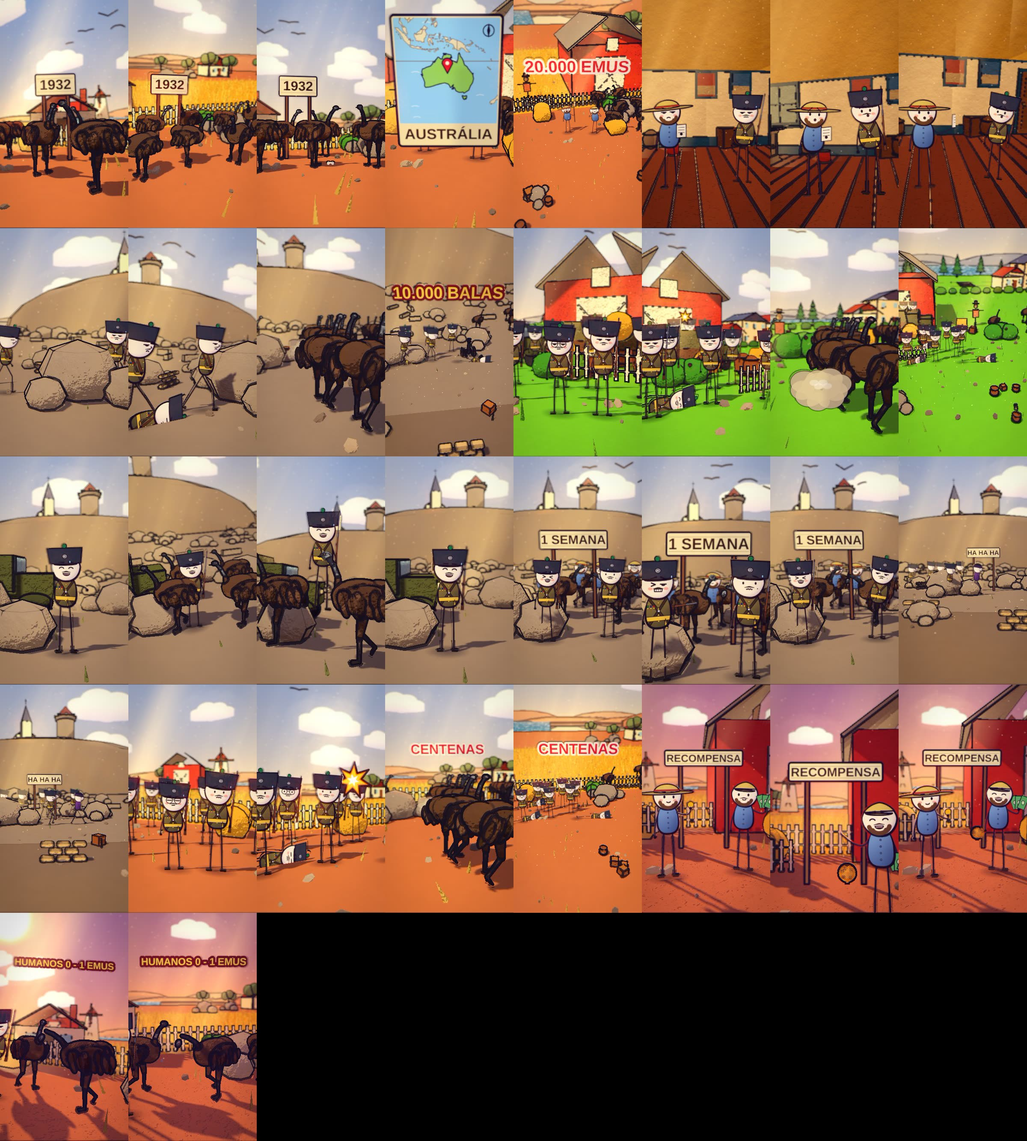
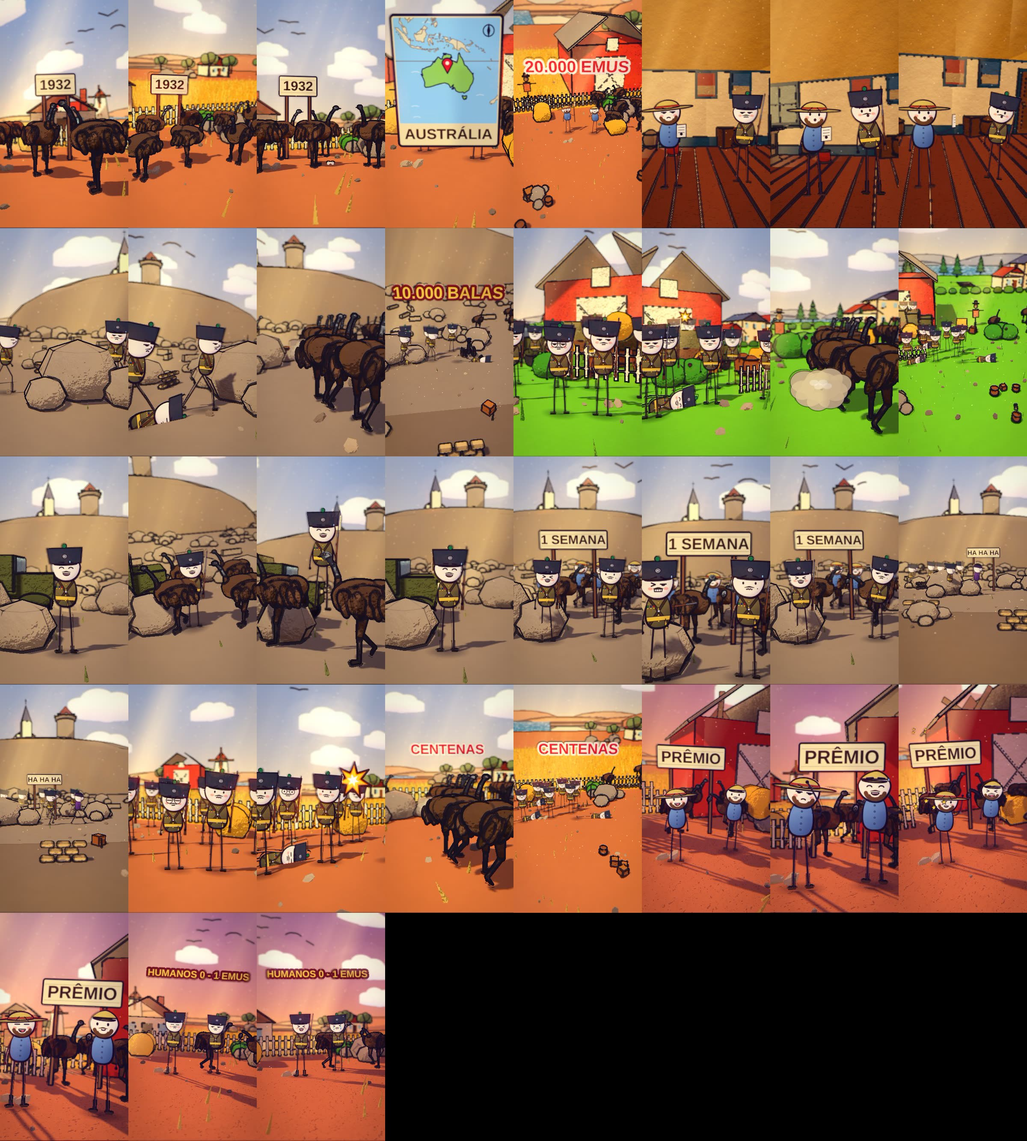
emus1932 aprovado
Claude-Session: https://claude.ai/code/session_01HE8Dy3Tz5Mgz6d3rSUrMHS

Changed region(s): [[0.0, 0.7786, 0.375, 1.0], [0.625, 0.5917, 1.0, 0.8098]]

diff --git a/ferramenta-shorts/web/story.js b/ferramenta-shorts/web/story.js
@@ -42,11 +42,11 @@ const SPEC = {
     { ...S('b7', A[7], A[8] - 1, X_mountain, "desert", { h: 2.2, d0: 8.0, d1: 8.0, el: 3, fov: 44, vary: false, hero: { hero: 'any', frame: 'medium', minH: 0.07, main: 2 }, trans: 'dissolve', shots: [WS(116) + 2], actors: [Object.assign({ outfit: "AUS", v: 0, at: [X_mountain + -5.15, 1.3], move: [[X_mountain + 2.85, 1.3], A[7], A[8] - 1, 'lin'], pose: "run", expr: ((f) => f >= WS(109) - 2 ? "laugh" : "pained") }, { gests: [[WS(109) - 4, WS(116) - 4, 'up']] }), { outfit: "PRESS", v: 0, at: [X_mountain + -2.85, 1.0], move: [[X_mountain + 5.15, 1.0], A[7], A[8] - 1, 'lin'], pose: "run", expr: ((f) => f >= WS(109) - 2 ? "laugh" : "grin"), over: { hold: "paper" } }, { outfit: "AUS", v: 0, at: [X_mountain + -12.85, -3.36], move: [[X_mountain + -0.85, -3.36], A[7], A[8] - 1, 'lin'], pose: 'march', speed: 0.034, expr: ((f) => f >= WS(109) - 2 ? "laugh" : "stern"), seed: 0, look: -0.25 }, { outfit: "AUS", v: 1, at: [X_mountain + -10.79, -2.88], move: [[X_mountain + 1.21, -2.88], A[7], A[8] - 1, 'lin'], pose: 'march', speed: 0.034, expr: ((f) => f >= WS(109) - 2 ? "laugh" : "stern"), seed: 1, look: 0.25 }, { outfit: "AUS", v: 2, at: [X_mountain + -8.73, -3.24], move: [[X_mountain + 3.27, -3.24], A[7], A[8] - 1, 'lin'], pose: 'march', speed: 0.034, expr: ((f) => f >= WS(109) - 2 ? "laugh" : "stern"), seed: 2, look: 0.0 }, { outfit: "AUS", v: 3, at: [X_mountain + -7.66, -2.76], move: [[X_mountain + 4.34, -2.76], A[7], A[8] - 1, 'lin'], pose: 'march', speed: 0.034, expr: ((f) => f >= WS(109) - 2 ? "laugh" : "stern"), seed: 3, look: 0.15 }, { outfit: "AUS", v: 0, at: [X_mountain + -5.6, -3.12], move: [[X_mountain + 6.4, -3.12], A[7], A[8] - 1, 'lin'], pose: 'march', speed: 0.034, expr: ((f) => f >= WS(109) - 2 ? "laugh" : "stern"), seed: 0, look: -0.25 }, { outfit: "AUS", v: 1, at: [X_mountain + -11.14, -4.74], move: [[X_mountain + 0.86, -4.74], A[7], A[8] - 1, 'lin'], pose: 'march', speed: 0.034, expr: ((f) => f >= WS(109) - 2 ? "laugh" : "stern"), seed: 1, look: 0.25 }], fx: [{ k: 'text', a: A[7], b: A[8] - 1, at: [X_mountain + 0.0, DK, -1.3], text: "HA HA HA", s: 2.625, col: '#3a2416', size: 120, board: true }, { k: "dust", a: WS(106), b: WS(106) + 28, at: [X_mountain + 4.3, DK + 0.12, -2.92], s: 0.7 }, { k: "stars", a: WS(109), b: WS(109) + 28, at: [X_mountain + -1.79, DK + 0.5, -1.88], s: 1.1 }, { k: 'burst', a: WS(116), b: WS(116) + 22, at: [X_mountain + -3.85, DK + 1.8, -1.86], s: 1.2 }, { k: "stars", a: WS(109) + 3, b: WS(109) + 30, at: [X_mountain + -1.15, DK + 2.6, 1.7], s: 0.6 }, { k: 'flash', a: WS(116) + 2, b: WS(116) + 10, at: [X_mountain + 0.4, DK - 0.55, 1.7], s: 1.6 }] }), cam: [{ f: A[7], at: [X_mountain + -4.0, DK + 2.2, 1.5], d: 8.0, az: 6, el: 3, fov: 44 }, { f: A[8] - 1, at: [X_mountain + 4.0, DK + 2.2, 1.5], d: 8.0, az: -8, el: 4, fov: 44, ease: 'lin' }], nocut: true },
     { ...{ ...S('b8', A[8], Math.round(A[8] + (A[9] - 1 + 1 - (A[8])) * 0.2) - 1, X, "desert", { h: 2.6, d0: 25.0, d1: 19.0, el: 11, cx: 0.0, cz: -1.5, hero: { hero: 'none', wide: true }, vary: false, nocut: true, trans: 'dissolve', actors: [pp(X, "AUS", 1, -1.15, -0.4, "stern"), pp(X, "AUS", 0, 1.15, 0.2, "stern"), { bird: 'emu', at: [X + 1.5, -0.5], move: [[X + 6.5, -5.5], A[8], A[9] - 1], state: 'walk', spd: 0.09, s: 1.6, flip: false, seed: 2 }, { bird: 'emu', at: [X + 3.188, 0.25], move: [[X + 14.488, -6.812], A[8], A[9] - 1], state: 'walk', spd: 0.09, s: 1.6, flip: false, seed: 7 }, { bird: 'emu', at: [X + 4.875, 1.0], move: [[X + 12.575, -8.125], A[8], A[9] - 1], state: 'walk', spd: 0.09, s: 1.6, flip: false, seed: 12 }, { bird: 'emu', at: [X + 6.562, 1.75], move: [[X + 20.562, -9.438], A[8], A[9] - 1], state: 'walk', spd: 0.09, s: 1.6, flip: false, seed: 17 }, { bird: 'emu', at: [X + 8.25, 2.5], move: [[X + 18.65, -10.75], A[8], A[9] - 1], state: 'walk', spd: 0.09, s: 1.6, flip: false, seed: 22 }, { bird: 'emu', at: [X + 9.938, 3.25], move: [[X + 16.738, -12.062], A[8], A[9] - 1], state: 'walk', spd: 0.09, s: 1.6, flip: false, seed: 27 }, { bird: 'emu', at: [X + 2.062, 4.0], move: [[X + 15.162, -1.688], A[8], A[9] - 1], state: 'walk', spd: 0.09, s: 1.6, flip: false, seed: 32 }, { bird: 'emu', at: [X + 3.75, 4.75], move: [[X + 13.25, -3.0], A[8], A[9] - 1], state: 'walk', spd: 0.09, s: 1.6, flip: false, seed: 37 }, { bird: 'emu', at: [X + 5.438, 5.5], move: [[X + 11.338, -4.312], A[8], A[9] - 1], state: 'walk', spd: 0.09, s: 1.6, flip: false, seed: 42 }, { bird: 'emu', at: [X + 7.125, 6.25], move: [[X + 19.325, -5.625], A[8], A[9] - 1], state: 'walk', spd: 0.09, s: 1.6, flip: false, seed: 47 }, { bird: 'emu', at: [X + 8.812, 7.0], move: [[X + 17.413, -6.938], A[8], A[9] - 1], state: 'walk', spd: 0.09, s: 1.6, flip: false, seed: 52 }, { bird: 'emu', at: [X + 10.5, 7.75], move: [[X + 15.5, -8.25], A[8], A[9] - 1], state: 'walk', spd: 0.09, s: 1.6, flip: false, seed: 57 }, { bird: 'emu', at: [X + 2.625, 8.5], move: [[X + 13.925, 2.125], A[8], A[9] - 1], state: 'walk', spd: 0.09, s: 1.6, flip: false, seed: 62 }, { bird: 'emu', at: [X + 4.312, -0.5], move: [[X + 12.012, -8.938], A[8], A[9] - 1], state: 'walk', spd: 0.09, s: 1.6, flip: false, seed: 67 }, { bird: 'emu', at: [X + 6.0, 0.25], move: [[X + 20.0, -10.25], A[8], A[9] - 1], state: 'walk', spd: 0.09, s: 1.6, flip: false, seed: 72 }, { bird: 'emu', at: [X + 7.688, 1.0], move: [[X + 18.087, -11.562], A[8], A[9] - 1], state: 'walk', spd: 0.09, s: 1.6, flip: false, seed: 77 }, { bird: 'emu', at: [X + 9.375, 1.75], move: [[X + 16.175, -12.875], A[8], A[9] - 1], state: 'walk', spd: 0.09, s: 1.6, flip: false, seed: 82 }, { bird: 'emu', at: [X + 1.5, 2.5], move: [[X + 14.6, -2.5], A[8], A[9] - 1], state: 'walk', spd: 0.09, s: 1.6, flip: false, seed: 87 }, { bird: 'emu', at: [X + 3.188, 3.25], move: [[X + 12.688, -3.812], A[8], A[9] - 1], state: 'walk', spd: 0.09, s: 1.6, flip: false, seed: 92 }, { bird: 'emu', at: [X + 4.875, 4.0], move: [[X + 10.775, -5.125], A[8], A[9] - 1], state: 'walk', spd: 0.09, s: 1.6, flip: false, seed: 97 }, { bird: 'emu', at: [X + 6.562, 4.75], move: [[X + 18.762, -6.438], A[8], A[9] - 1], state: 'walk', spd: 0.09, s: 1.6, flip: false, seed: 102 }, { bird: 'emu', at: [X + 8.25, 5.5], move: [[X + 16.85, -7.75], A[8], A[9] - 1], state: 'walk', spd: 0.09, s: 1.6, flip: false, seed: 107 }, { bird: 'emu', at: [X + 9.938, 6.25], move: [[X + 14.938, -9.062], A[8], A[9] - 1], state: 'walk', spd: 0.09, s: 1.6, flip: false, seed: 112 }, { bird: 'emu', at: [X + 2.062, 7.0], move: [[X + 13.363, 1.312], A[8], A[9] - 1], state: 'walk', spd: 0.09, s: 1.6, flip: false, seed: 117 }, { bird: 'emu', at: [X + 3.75, 7.75], move: [[X + 11.45, 0.0], A[8], A[9] - 1], state: 'walk', spd: 0.09, s: 1.6, flip: false, seed: 122 }, { bird: 'emu', at: [X + 5.438, 8.5], move: [[X + 19.438, -1.312], A[8], A[9] - 1], state: 'walk', spd: 0.09, s: 1.6, flip: false, seed: 127 }, pp(X, "AUS", 0, -14.55, 0.84, "neutral", { look: -0.25, seed: 0 }), pp(X, "AUS", 1, -12.29, 1.32, "neutral", { look: 0.25, seed: 1 }), Object.assign(pp(X, "AUS", 2, -10.03, 0.96, "neutral", { look: 0.0, seed: 2 }), { poses: [[A[8] + 22, A[9] - 1, 'fall']] }), pp(X, "AUS", 3, -8.76, 1.44, "neutral", { look: 0.15, seed: 3 }), pp(X, "AUS", 4, -6.5, 1.08, "neutral", { look: -0.25, seed: 0 }), Object.assign(pp(X, "AUS", 5, -4.24, 1.56, "neutral", { look: 0.25, seed: 1 }), { poses: [[A[8] + 39, A[9] - 1, 'fall']] }), pp(X, "AUS", 6, -2.97, 1.2, "neutral", { look: 0.0, seed: 2 }), pp(X, "AUS", 0, -0.71, 0.84, "neutral", { look: 0.15, seed: 3 }), Object.assign(pp(X, "AUS", 1, 1.55, 1.32, "neutral", { look: -0.25, seed: 0 }), { poses: [[A[8] + 56, A[9] - 1, 'fall']] }), pp(X, "AUS", 2, -13.38, -1.14, "neutral", { look: 0.25, seed: 1 }), pp(X, "AUS", 3, -11.12, -0.66, "neutral", { look: 0.0, seed: 2 }), Object.assign(pp(X, "AUS", 4, -9.85, -1.02, "neutral", { look: 0.15, seed: 3 }), { poses: [[A[8] + 73, A[9] - 1, 'fall']] }), pp(X, "AUS", 5, -7.59, -0.54, "neutral", { look: -0.25, seed: 0 }), pp(X, "AUS", 6, -5.33, -0.9, "neutral", { look: 0.25, seed: 1 }), Object.assign(pp(X, "AUS", 0, -4.06, -1.26, "neutral", { look: 0.0, seed: 2 }), { poses: [[A[8] + 90, A[9] - 1, 'fall']] }), pp(X, "AUS", 1, -1.8, -0.78, "neutral", { look: 0.15, seed: 3 }), pp(X, "AUS", 2, 0.46, -1.14, "neutral", { look: -0.25, seed: 0 }), pp(X, "AUS", 3, 1.73, -0.66, "neutral", { look: 0.25, seed: 1 }), pp(X, "AUS", 4, -14.01, -3.12, "neutral", { look: 0.0, seed: 2 }), pp(X, "AUS", 5, -11.75, -2.64, "neutral", { look: 0.15, seed: 3 }), pp(X, "AUS", 6, -10.48, -3.0, "neutral", { look: -0.25, seed: 0 }), pp(X, "AUS", 0, -8.22, -3.36, "neutral", { look: 0.25, seed: 1 }), pp(X, "AUS", 1, -6.95, -2.88, "neutral", { look: 0.0, seed: 2 }), pp(X, "AUS", 2, -4.69, -3.24, "neutral", { look: 0.15, seed: 3 })], fx: [{ k: 'dust', a: A[8] + 14, b: A[8] + 44, at: [X + 3.5, DK + 0.4, -2.5], s: 0.85 }, { k: 'dust', a: A[8] + 41, b: A[8] + 71, at: [X + 12.163, DK + 0.4, -2.725], s: 0.85 }, { k: 'dust', a: A[8] + 68, b: A[8] + 98, at: [X + 7.303, DK + 0.4, 1.725], s: 0.85 }, { k: 'dust', a: A[8] + 95, b: A[8] + 125, at: [X + 12.005, DK + 0.4, 1.5], s: 0.85 }, { k: 'dust', a: A[8] + 122, b: A[8] + 152, at: [X + 7.145, DK + 0.4, 5.95], s: 0.85 }, { k: 'dust', a: A[8] + 149, b: A[8] + 179, at: [X + 11.848, DK + 0.4, -4.025], s: 0.85 }, { k: 'dust', a: A[8] + 176, b: A[8] + 206, at: [X + 6.988, DK + 0.4, 0.425], s: 0.85 }, { k: 'dust', a: A[8] + 203, b: A[8] + 233, at: [X + 11.69, DK + 0.4, 0.2], s: 0.85 }, { k: 'dust', a: A[8] + 230, b: A[8] + 260, at: [X + 6.83, DK + 0.4, 4.65], s: 0.85 }, { k: 'birds', a: A[8], b: A[9] - 1, at: [X, DK + 7.5, -30], n: 6, dir: 1, off: 8 }, txt(X, WS(125, -2), A[9] - 1, "CENTENAS", '#d8282f', '#fff6e0', 4.8, { s: 1.5, up: 0.42 }), { k: 'flash', a: A[8] + 8, b: A[8] + 16, at: [X + -9.28, DK - 1.05 + 0, 1.36], s: 2.5 }, { k: 'flash', a: A[8] + 16, b: A[8] + 24, at: [X + 0.04, DK - 1.05 + 0, 1.24], s: 2.5 }, { k: 'flash', a: A[8] + 20, b: A[8] + 28, at: [X + -6.84, DK - 1.05 + 0, -0.14], s: 2.5 }, { k: 'flash', a: A[8] + 24, b: A[8] + 32, at: [X + 2.48, DK - 1.05 + 0, -0.26], s: 2.5 }, { k: 'flash', a: A[8] + 28, b: A[8] + 36, at: [X + -6.2, DK - 1.05 + 0, -2.48], s: 2.5 }, { k: 'flash', a: A[8] + 36, b: A[8] + 44, at: [X + -8.01, DK - 1.05 + 0, 1.84], s: 2.5 }, { k: 'flash', a: A[8] + 40, b: A[8] + 48, at: [X + 2.3, DK - 1.05 + 0, 1.72], s: 2.5 }, { k: 'flash', a: A[8] + 44, b: A[8] + 52, at: [X + -4.58, DK - 1.05 + 0, -0.5], s: 2.5 }, { k: 'flash', a: A[8] + 48, b: A[8] + 56, at: [X + -13.26, DK - 1.05 + 0, -2.72], s: 2.5 }, { k: 'flash', a: A[8] + 56, b: A[8] + 64, at: [X + -3.94, DK - 1.05 + 0, -2.84], s: 2.5 }, { k: 'flash', a: A[8] + 60, b: A[8] + 68, at: [X + -5.75, DK - 1.05 + 0, 1.48], s: 2.5 }, { k: 'flash', a: A[8] + 64, b: A[8] + 72, at: [X + -12.63, DK - 1.05 + 0, -0.74], s: 2.5 }, { k: 'flash', a: A[8] + 68, b: A[8] + 76, at: [X + -3.31, DK - 1.05 + 0, -0.86], s: 2.5 }, { k: 'flash', a: A[8] + 76, b: A[8] + 84, at: [X + -11.0, DK - 1.05 + 0, -2.24], s: 2.5 }, { k: 'flash', a: A[8] + 80, b: A[8] + 88, at: [X + -13.8, DK - 1.05 + 0, 1.24], s: 2.5 }, { k: 'flash', a: A[8] + 84, b: A[8] + 92, at: [X + -3.49, DK - 1.05 + 0, 1.96], s: 2.5 }, { k: 'flash', a: A[8] + 88, b: A[8] + 96, at: [X + -10.37, DK - 1.05 + 0, -0.26], s: 2.5 }, { k: 'flash', a: A[8] + 96, b: A[8] + 104, at: [X + -1.05, DK - 1.05 + 0, -0.38], s: 2.5 }, { k: 'flash', a: A[8] + 100, b: A[8] + 108, at: [X + -9.73, DK - 1.05 + 0, -2.6], s: 2.5 }, { k: 'flash', a: A[8] + 104, b: A[8] + 112, at: [X + -11.54, DK - 1.05 + 0, 1.72], s: 2.5 }, { k: 'flash', a: A[8] + 108, b: A[8] + 116, at: [X + -2.22, DK - 1.05 + 0, 1.6], s: 2.5 }, { k: 'flash', a: A[8] + 116, b: A[8] + 124, at: [X + -9.1, DK - 1.05 + 0, -0.62], s: 2.5 }, { k: 'flash', a: A[8] + 120, b: A[8] + 128, at: [X + 1.21, DK - 1.05 + 0, -0.74], s: 2.5 }, { k: 'flash', a: A[8] + 124, b: A[8] + 132, at: [X + -7.47, DK - 1.05 + 0, -2.96], s: 2.5 }, { k: 'dust', a: A[8] + 22, b: A[8] + 42, at: [X + -10.03, DK + 0.1, 1.26], s: 0.6 }, { k: 'dust', a: A[8] + 39, b: A[8] + 59, at: [X + -4.24, DK + 0.1, 1.86], s: 0.6 }, { k: 'dust', a: A[8] + 56, b: A[8] + 76, at: [X + 1.55, DK + 0.1, 1.62], s: 0.6 }, { k: 'dust', a: A[8] + 73, b: A[8] + 93, at: [X + -9.85, DK + 0.1, -0.72], s: 0.6 }, { k: 'dust', a: A[8] + 90, b: A[8] + 110, at: [X + -4.06, DK + 0.1, -0.96], s: 0.6 }] }), nocut: true }, cam: [{ f: A[8], at: [X + -5.0, DK + 1.9, -2.5], d: 11, az: 24, el: 5, fov: 44 }, { f: Math.round(A[8] + (A[9] - 1 + 1 - (A[8])) * 0.2) - 1, at: [X + -5.5, DK + 1.9, -2.5], d: 9.2, az: 16, el: 5, fov: 44 }], nocut: true, vary: false }, { ...{ ...S('b8_1', Math.round(A[8] + (A[9] - 1 + 1 - (A[8])) * 0.2), Math.round(A[8] + (A[9] - 1 + 1 - (A[8])) * 0.4) - 1, X, "desert", { h: 2.6, d0: 25.0, d1: 19.0, el: 11, cx: 0.0, cz: -1.5, hero: { hero: 'none', wide: true }, vary: false, nocut: true, trans: 'cut', actors: [pp(X, "AUS", 1, -1.15, -0.4, "stern"), pp(X, "AUS", 0, 1.15, 0.2, "stern"), { bird: 'emu', at: [X + 1.5, -0.5], move: [[X + 6.5, -5.5], A[8], A[9] - 1], state: 'walk', spd: 0.09, s: 1.6, flip: false, seed: 2 }, { bird: 'emu', at: [X + 3.188, 0.25], move: [[X + 14.488, -6.812], A[8], A[9] - 1], state: 'walk', spd: 0.09, s: 1.6, flip: false, seed: 7 }, { bird: 'emu', at: [X + 4.875, 1.0], move: [[X + 12.575, -8.125], A[8], A[9] - 1], state: 'walk', spd: 0.09, s: 1.6, flip: false, seed: 12 }, { bird: 'emu', at: [X + 6.562, 1.75], move: [[X + 20.562, -9.438], A[8], A[9] - 1], state: 'walk', spd: 0.09, s: 1.6, flip: false, seed: 17 }, { bird: 'emu', at: [X + 8.25, 2.5], move: [[X + 18.65, -10.75], A[8], A[9] - 1], state: 'walk', spd: 0.09, s: 1.6, flip: false, seed: 22 }, { bird: 'emu', at: [X + 9.938, 3.25], move: [[X + 16.738, -12.062], A[8], A[9] - 1], state: 'walk', spd: 0.09, s: 1.6, flip: false, seed: 27 }, { bird: 'emu', at: [X + 2.062, 4.0], move: [[X + 15.162, -1.688], A[8], A[9] - 1], state: 'walk', spd: 0.09, s: 1.6, flip: false, seed: 32 }, { bird: 'emu', at: [X + 3.75, 4.75], move: [[X + 13.25, -3.0], A[8], A[9] - 1], state: 'walk', spd: 0.09, s: 1.6, flip: false, seed: 37 }, { bird: 'emu', at: [X + 5.438, 5.5], move: [[X + 11.338, -4.312], A[8], A[9] - 1], state: 'walk', spd: 0.09, s: 1.6, flip: false, seed: 42 }, { bird: 'emu', at: [X + 7.125, 6.25], move: [[X + 19.325, -5.625], A[8], A[9] - 1], state: 'walk', spd: 0.09, s: 1.6, flip: false, seed: 47 }, { bird: 'emu', at: [X + 8.812, 7.0], move: [[X + 17.413, -6.938], A[8], A[9] - 1], state: 'walk', spd: 0.09, s: 1.6, flip: false, seed: 52 }, { bird: 'emu', at: [X + 10.5, 7.75], move: [[X + 15.5, -8.25], A[8], A[9] - 1], state: 'walk', spd: 0.09, s: 1.6, flip: false, seed: 57 }, { bird: 'emu', at: [X + 2.625, 8.5], move: [[X + 13.925, 2.125], A[8], A[9] - 1], state: 'walk', spd: 0.09, s: 1.6, flip: false, seed: 62 }, { bird: 'emu', at: [X + 4.312, -0.5], move: [[X + 12.012, -8.938], A[8], A[9] - 1], state: 'walk', spd: 0.09, s: 1.6, flip: false, seed: 67 }, { bird: 'emu', at: [X + 6.0, 0.25], move: [[X + 20.0, -10.25], A[8], A[9] - 1], state: 'walk', spd: 0.09, s: 1.6, flip: false, seed: 72 }, { bird: 'emu', at: [X + 7.688, 1.0], move: [[X + 18.087, -11.562], A[8], A[9] - 1], state: 'walk', spd: 0.09, s: 1.6, flip: false, seed: 77 }, { bird: 'emu', at: [X + 9.375, 1.75], move: [[X + 16.175, -12.875], A[8], A[9] - 1], state: 'walk', spd: 0.09, s: 1.6, flip: false, seed: 82 }, { bird: 'emu', at: [X + 1.5, 2.5], move: [[X + 14.6, -2.5], A[8], A[9] - 1], state: 'walk', spd: 0.09, s: 1.6, flip: false, seed: 87 }, { bird: 'emu', at: [X + 3.188, 3.25], move: [[X + 12.688, -3.812], A[8], A[9] - 1], state: 'walk', spd: 0.09, s: 1.6, flip: false, seed: 92 }, { bird: 'emu', at: [X + 4.875, 4.0], move: [[X + 10.775, -5.125], A[8], A[9] - 1], state: 'walk', spd: 0.09, s: 1.6, flip: false, seed: 97 }, { bird: 'emu', at: [X + 6.562, 4.75], move: [[X + 18.762, -6.438], A[8], A[9] - 1], state: 'walk', spd: 0.09, s: 1.6, flip: false, seed: 102 }, { bird: 'emu', at: [X + 8.25, 5.5], move: [[X + 16.85, -7.75], A[8], A[9] - 1], state: 'walk', spd: 0.09, s: 1.6, flip: false, seed: 107 }, { bird: 'emu', at: [X + 9.938, 6.25], move: [[X + 14.938, -9.062], A[8], A[9] - 1], state: 'walk', spd: 0.09, s: 1.6, flip: false, seed: 112 }, { bird: 'emu', at: [X + 2.062, 7.0], move: [[X + 13.363, 1.312], A[8], A[9] - 1], state: 'walk', spd: 0.09, s: 1.6, flip: false, seed: 117 }, { bird: 'emu', at: [X + 3.75, 7.75], move: [[X + 11.45, 0.0], A[8], A[9] - 1], state: 'walk', spd: 0.09, s: 1.6, flip: false, seed: 122 }, { bird: 'emu', at: [X + 5.438, 8.5], move: [[X + 19.438, -1.312], A[8], A[9] - 1], state: 'walk', spd: 0.09, s: 1.6, flip: false, seed: 127 }, pp(X, "AUS", 0, -14.55, 0.84, "neutral", { look: -0.25, seed: 0 }), pp(X, "AUS", 1, -12.29, 1.32, "neutral", { look: 0.25, seed: 1 }), Object.assign(pp(X, "AUS", 2, -10.03, 0.96, "neutral", { look: 0.0, seed: 2 }), { poses: [[A[8] + 22, A[9] - 1, 'fall']] }), pp(X, "AUS", 3, -8.76, 1.44, "neutral", { look: 0.15, seed: 3 }), pp(X, "AUS", 4, -6.5, 1.08, "neutral", { look: -0.25, seed: 0 }), Object.assign(pp(X, "AUS", 5, -4.24, 1.56, "neutral", { look: 0.25, seed: 1 }), { poses: [[A[8] + 39, A[9] - 1, 'fall']] }), pp(X, "AUS", 6, -2.97, 1.2, "neutral", { look: 0.0, seed: 2 }), pp(X, "AUS", 0, -0.71, 0.84, "neutral", { look: 0.15, seed: 3 }), Object.assign(pp(X, "AUS", 1, 1.55, 1.32, "neutral", { look: -0.25, seed: 0 }), { poses: [[A[8] + 56, A[9] - 1, 'fall']] }), pp(X, "AUS", 2, -13.38, -1.14, "neutral", { look: 0.25, seed: 1 }), pp(X, "AUS", 3, -11.12, -0.66, "neutral", { look: 0.0, seed: 2 }), Object.assign(pp(X, "AUS", 4, -9.85, -1.02, "neutral", { look: 0.15, seed: 3 }), { poses: [[A[8] + 73, A[9] - 1, 'fall']] }), pp(X, "AUS", 5, -7.59, -0.54, "neutral", { look: -0.25, seed: 0 }), pp(X, "AUS", 6, -5.33, -0.9, "neutral", { look: 0.25, seed: 1 }), Object.assign(pp(X, "AUS", 0, -4.06, -1.26, "neutral", { look: 0.0, seed: 2 }), { poses: [[A[8] + 90, A[9] - 1, 'fall']] }), pp(X, "AUS", 1, -1.8, -0.78, "neutral", { look: 0.15, seed: 3 }), pp(X, "AUS", 2, 0.46, -1.14, "neutral", { look: -0.25, seed: 0 }), pp(X, "AUS", 3, 1.73, -0.66, "neutral", { look: 0.25, seed: 1 }), pp(X, "AUS", 4, -14.01, -3.12, "neutral", { look: 0.0, seed: 2 }), pp(X, "AUS", 5, -11.75, -2.64, "neutral", { look: 0.15, seed: 3 }), pp(X, "AUS", 6, -10.48, -3.0, "neutral", { look: -0.25, seed: 0 }), pp(X, "AUS", 0, -8.22, -3.36, "neutral", { look: 0.25, seed: 1 }), pp(X, "AUS", 1, -6.95, -2.88, "neutral", { look: 0.0, seed: 2 }), pp(X, "AUS", 2, -4.69, -3.24, "neutral", { look: 0.15, seed: 3 })], fx: [{ k: 'dust', a: A[8] + 14, b: A[8] + 44, at: [X + 3.5, DK + 0.4, -2.5], s: 0.85 }, { k: 'dust', a: A[8] + 41, b: A[8] + 71, at: [X + 12.163, DK + 0.4, -2.725], s: 0.85 }, { k: 'dust', a: A[8] + 68, b: A[8] + 98, at: [X + 7.303, DK + 0.4, 1.725], s: 0.85 }, { k: 'dust', a: A[8] + 95, b: A[8] + 125, at: [X + 12.005, DK + 0.4, 1.5], s: 0.85 }, { k: 'dust', a: A[8] + 122, b: A[8] + 152, at: [X + 7.145, DK + 0.4, 5.95], s: 0.85 }, { k: 'dust', a: A[8] + 149, b: A[8] + 179, at: [X + 11.848, DK + 0.4, -4.025], s: 0.85 }, { k: 'dust', a: A[8] + 176, b: A[8] + 206, at: [X + 6.988, DK + 0.4, 0.425], s: 0.85 }, { k: 'dust', a: A[8] + 203, b: A[8] + 233, at: [X + 11.69, DK + 0.4, 0.2], s: 0.85 }, { k: 'dust', a: A[8] + 230, b: A[8] + 260, at: [X + 6.83, DK + 0.4, 4.65], s: 0.85 }, { k: 'birds', a: A[8], b: A[9] - 1, at: [X, DK + 7.5, -30], n: 6, dir: 1, off: 8 }, txt(X, WS(125, -2), A[9] - 1, "CENTENAS", '#d8282f', '#fff6e0', 4.8, { s: 1.5, up: 0.42 }), { k: 'flash', a: A[8] + 8, b: A[8] + 16, at: [X + -9.28, DK - 1.05 + 0, 1.36], s: 2.5 }, { k: 'flash', a: A[8] + 16, b: A[8] + 24, at: [X + 0.04, DK - 1.05 + 0, 1.24], s: 2.5 }, { k: 'flash', a: A[8] + 20, b: A[8] + 28, at: [X + -6.84, DK - 1.05 + 0, -0.14], s: 2.5 }, { k: 'flash', a: A[8] + 24, b: A[8] + 32, at: [X + 2.48, DK - 1.05 + 0, -0.26], s: 2.5 }, { k: 'flash', a: A[8] + 28, b: A[8] + 36, at: [X + -6.2, DK - 1.05 + 0, -2.48], s: 2.5 }, { k: 'flash', a: A[8] + 36, b: A[8] + 44, at: [X + -8.01, DK - 1.05 + 0, 1.84], s: 2.5 }, { k: 'flash', a: A[8] + 40, b: A[8] + 48, at: [X + 2.3, DK - 1.05 + 0, 1.72], s: 2.5 }, { k: 'flash', a: A[8] + 44, b: A[8] + 52, at: [X + -4.58, DK - 1.05 + 0, -0.5], s: 2.5 }, { k: 'flash', a: A[8] + 48, b: A[8] + 56, at: [X + -13.26, DK - 1.05 + 0, -2.72], s: 2.5 }, { k: 'flash', a: A[8] + 56, b: A[8] + 64, at: [X + -3.94, DK - 1.05 + 0, -2.84], s: 2.5 }, { k: 'flash', a: A[8] + 60, b: A[8] + 68, at: [X + -5.75, DK - 1.05 + 0, 1.48], s: 2.5 }, { k: 'flash', a: A[8] + 64, b: A[8] + 72, at: [X + -12.63, DK - 1.05 + 0, -0.74], s: 2.5 }, { k: 'flash', a: A[8] + 68, b: A[8] + 76, at: [X + -3.31, DK - 1.05 + 0, -0.86], s: 2.5 }, { k: 'flash', a: A[8] + 76, b: A[8] + 84, at: [X + -11.0, DK - 1.05 + 0, -2.24], s: 2.5 }, { k: 'flash', a: A[8] + 80, b: A[8] + 88, at: [X + -13.8, DK - 1.05 + 0, 1.24], s: 2.5 }, { k: 'flash', a: A[8] + 84, b: A[8] + 92, at: [X + -3.49, DK - 1.05 + 0, 1.96], s: 2.5 }, { k: 'flash', a: A[8] + 88, b: A[8] + 96, at: [X + -10.37, DK - 1.05 + 0, -0.26], s: 2.5 }, { k: 'flash', a: A[8] + 96, b: A[8] + 104, at: [X + -1.05, DK - 1.05 + 0, -0.38], s: 2.5 }, { k: 'flash', a: A[8] + 100, b: A[8] + 108, at: [X + -9.73, DK - 1.05 + 0, -2.6], s: 2.5 }, { k: 'flash', a: A[8] + 104, b: A[8] + 112, at: [X + -11.54, DK - 1.05 + 0, 1.72], s: 2.5 }, { k: 'flash', a: A[8] + 108, b: A[8] + 116, at: [X + -2.22, DK - 1.05 + 0, 1.6], s: 2.5 }, { k: 'flash', a: A[8] + 116, b: A[8] + 124, at: [X + -9.1, DK - 1.05 + 0, -0.62], s: 2.5 }, { k: 'flash', a: A[8] + 120, b: A[8] + 128, at: [X + 1.21, DK - 1.05 + 0, -0.74], s: 2.5 }, { k: 'flash', a: A[8] + 124, b: A[8] + 132, at: [X + -7.47, DK - 1.05 + 0, -2.96], s: 2.5 }, { k: 'dust', a: A[8] + 22, b: A[8] + 42, at: [X + -10.03, DK + 0.1, 1.26], s: 0.6 }, { k: 'dust', a: A[8] + 39, b: A[8] + 59, at: [X + -4.24, DK + 0.1, 1.86], s: 0.6 }, { k: 'dust', a: A[8] + 56, b: A[8] + 76, at: [X + 1.55, DK + 0.1, 1.62], s: 0.6 }, { k: 'dust', a: A[8] + 73, b: A[8] + 93, at: [X + -9.85, DK + 0.1, -0.72], s: 0.6 }, { k: 'dust', a: A[8] + 90, b: A[8] + 110, at: [X + -4.06, DK + 0.1, -0.96], s: 0.6 }] }), nocut: true }, cam: [{ f: Math.round(A[8] + (A[9] - 1 + 1 - (A[8])) * 0.2), at: [X + -7.0, DK + 2.3, 0.8], d: 7.2, az: -30, el: 1, fov: 44 }, { f: Math.round(A[8] + (A[9] - 1 + 1 - (A[8])) * 0.4) - 1, at: [X + -6.0, DK + 2.3, 0.8], d: 6.4, az: -20, el: 2, fov: 44 }], nocut: true, vary: false, glide: true }, { ...{ ...S('b8_2', Math.round(A[8] + (A[9] - 1 + 1 - (A[8])) * 0.4), Math.round(A[8] + (A[9] - 1 + 1 - (A[8])) * 0.66) - 1, X, "desert", { h: 2.6, d0: 25.0, d1: 19.0, el: 11, cx: 0.0, cz: -1.5, hero: { hero: 'none', wide: true }, vary: false, nocut: true, trans: 'cut', actors: [pp(X, "AUS", 1, -1.15, -0.4, "stern"), pp(X, "AUS", 0, 1.15, 0.2, "stern"), { bird: 'emu', at: [X + 1.5, -0.5], move: [[X + 6.5, -5.5], A[8], A[9] - 1], state: 'walk', spd: 0.09, s: 1.6, flip: false, seed: 2 }, { bird: 'emu', at: [X + 3.188, 0.25], move: [[X + 14.488, -6.812], A[8], A[9] - 1], state: 'walk', spd: 0.09, s: 1.6, flip: false, seed: 7 }, { bird: 'emu', at: [X + 4.875, 1.0], move: [[X + 12.575, -8.125], A[8], A[9] - 1], state: 'walk', spd: 0.09, s: 1.6, flip: false, seed: 12 }, { bird: 'emu', at: [X + 6.562, 1.75], move: [[X + 20.562, -9.438], A[8], A[9] - 1], state: 'walk', spd: 0.09, s: 1.6, flip: false, seed: 17 }, { bird: 'emu', at: [X + 8.25, 2.5], move: [[X + 18.65, -10.75], A[8], A[9] - 1], state: 'walk', spd: 0.09, s: 1.6, flip: false, seed: 22 }, { bird: 'emu', at: [X + 9.938, 3.25], move: [[X + 16.738, -12.062], A[8], A[9] - 1], state: 'walk', spd: 0.09, s: 1.6, flip: false, seed: 27 }, { bird: 'emu', at: [X + 2.062, 4.0], move: [[X + 15.162, -1.688], A[8], A[9] - 1], state: 'walk', spd: 0.09, s: 1.6, flip: false, seed: 32 }, { bird: 'emu', at: [X + 3.75, 4.75], move: [[X + 13.25, -3.0], A[8], A[9] - 1], state: 'walk', spd: 0.09, s: 1.6, flip: false, seed: 37 }, { bird: 'emu', at: [X + 5.438, 5.5], move: [[X + 11.338, -4.312], A[8], A[9] - 1], state: 'walk', spd: 0.09, s: 1.6, flip: false, seed: 42 }, { bird: 'emu', at: [X + 7.125, 6.25], move: [[X + 19.325, -5.625], A[8], A[9] - 1], state: 'walk', spd: 0.09, s: 1.6, flip: false, seed: 47 }, { bird: 'emu', at: [X + 8.812, 7.0], move: [[X + 17.413, -6.938], A[8], A[9] - 1], state: 'walk', spd: 0.09, s: 1.6, flip: false, seed: 52 }, { bird: 'emu', at: [X + 10.5, 7.75], move: [[X + 15.5, -8.25], A[8], A[9] - 1], state: 'walk', spd: 0.09, s: 1.6, flip: false, seed: 57 }, { bird: 'emu', at: [X + 2.625, 8.5], move: [[X + 13.925, 2.125], A[8], A[9] - 1], state: 'walk', spd: 0.09, s: 1.6, flip: false, seed: 62 }, { bird: 'emu', at: [X + 4.312, -0.5], move: [[X + 12.012, -8.938], A[8], A[9] - 1], state: 'walk', spd: 0.09, s: 1.6, flip: false, seed: 67 }, { bird: 'emu', at: [X + 6.0, 0.25], move: [[X + 20.0, -10.25], A[8], A[9] - 1], state: 'walk', spd: 0.09, s: 1.6, flip: false, seed: 72 }, { bird: 'emu', at: [X + 7.688, 1.0], move: [[X + 18.087, -11.562], A[8], A[9] - 1], state: 'walk', spd: 0.09, s: 1.6, flip: false, seed: 77 }, { bird: 'emu', at: [X + 9.375, 1.75], move: [[X + 16.175, -12.875], A[8], A[9] - 1], state: 'walk', spd: 0.09, s: 1.6, flip: false, seed: 82 }, { bird: 'emu', at: [X + 1.5, 2.5], move: [[X + 14.6, -2.5], A[8], A[9] - 1], state: 'walk', spd: 0.09, s: 1.6, flip: false, seed: 87 }, { bird: 'emu', at: [X + 3.188, 3.25], move: [[X + 12.688, -3.812], A[8], A[9] - 1], state: 'walk', spd: 0.09, s: 1.6, flip: false, seed: 92 }, { bird: 'emu', at: [X + 4.875, 4.0], move: [[X + 10.775, -5.125], A[8], A[9] - 1], state: 'walk', spd: 0.09, s: 1.6, flip: false, seed: 97 }, { bird: 'emu', at: [X + 6.562, 4.75], move: [[X + 18.762, -6.438], A[8], A[9] - 1], state: 'walk', spd: 0.09, s: 1.6, flip: false, seed: 102 }, { bird: 'emu', at: [X + 8.25, 5.5], move: [[X + 16.85, -7.75], A[8], A[9] - 1], state: 'walk', spd: 0.09, s: 1.6, flip: false, seed: 107 }, { bird: 'emu', at: [X + 9.938, 6.25], move: [[X + 14.938, -9.062], A[8], A[9] - 1], state: 'walk', spd: 0.09, s: 1.6, flip: false, seed: 112 }, { bird: 'emu', at: [X + 2.062, 7.0], move: [[X + 13.363, 1.312], A[8], A[9] - 1], state: 'walk', spd: 0.09, s: 1.6, flip: false, seed: 117 }, { bird: 'emu', at: [X + 3.75, 7.75], move: [[X + 11.45, 0.0], A[8], A[9] - 1], state: 'walk', spd: 0.09, s: 1.6, flip: false, seed: 122 }, { bird: 'emu', at: [X + 5.438, 8.5], move: [[X + 19.438, -1.312], A[8], A[9] - 1], state: 'walk', spd: 0.09, s: 1.6, flip: false, seed: 127 }, pp(X, "AUS", 0, -14.55, 0.84, "neutral", { look: -0.25, seed: 0 }), pp(X, "AUS", 1, -12.29, 1.32, "neutral", { look: 0.25, seed: 1 }), Object.assign(pp(X, "AUS", 2, -10.03, 0.96, "neutral", { look: 0.0, seed: 2 }), { poses: [[A[8] + 22, A[9] - 1, 'fall']] }), pp(X, "AUS", 3, -8.76, 1.44, "neutral", { look: 0.15, seed: 3 }), pp(X, "AUS", 4, -6.5, 1.08, "neutral", { look: -0.25, seed: 0 }), Object.assign(pp(X, "AUS", 5, -4.24, 1.56, "neutral", { look: 0.25, seed: 1 }), { poses: [[A[8] + 39, A[9] - 1, 'fall']] }), pp(X, "AUS", 6, -2.97, 1.2, "neutral", { look: 0.0, seed: 2 }), pp(X, "AUS", 0, -0.71, 0.84, "neutral", { look: 0.15, seed: 3 }), Object.assign(pp(X, "AUS", 1, 1.55, 1.32, "neutral", { look: -0.25, seed: 0 }), { poses: [[A[8] + 56, A[9] - 1, 'fall']] }), pp(X, "AUS", 2, -13.38, -1.14, "neutral", { look: 0.25, seed: 1 }), pp(X, "AUS", 3, -11.12, -0.66, "neutral", { look: 0.0, seed: 2 }), Object.assign(pp(X, "AUS", 4, -9.85, -1.02, "neutral", { look: 0.15, seed: 3 }), { poses: [[A[8] + 73, A[9] - 1, 'fall']] }), pp(X, "AUS", 5, -7.59, -0.54, "neutral", { look: -0.25, seed: 0 }), pp(X, "AUS", 6, -5.33, -0.9, "neutral", { look: 0.25, seed: 1 }), Object.assign(pp(X, "AUS", 0, -4.06, -1.26, "neutral", { look: 0.0, seed: 2 }), { poses: [[A[8] + 90, A[9] - 1, 'fall']] }), pp(X, "AUS", 1, -1.8, -0.78, "neutral", { look: 0.15, seed: 3 }), pp(X, "AUS", 2, 0.46, -1.14, "neutral", { look: -0.25, seed: 0 }), pp(X, "AUS", 3, 1.73, -0.66, "neutral", { look: 0.25, seed: 1 }), pp(X, "AUS", 4, -14.01, -3.12, "neutral", { look: 0.0, seed: 2 }), pp(X, "AUS", 5, -11.75, -2.64, "neutral", { look: 0.15, seed: 3 }), pp(X, "AUS", 6, -10.48, -3.0, "neutral", { look: -0.25, seed: 0 }), pp(X, "AUS", 0, -8.22, -3.36, "neutral", { look: 0.25, seed: 1 }), pp(X, "AUS", 1, -6.95, -2.88, "neutral", { look: 0.0, seed: 2 }), pp(X, "AUS", 2, -4.69, -3.24, "neutral", { look: 0.15, seed: 3 })], fx: [{ k: 'dust', a: A[8] + 14, b: A[8] + 44, at: [X + 3.5, DK + 0.4, -2.5], s: 0.85 }, { k: 'dust', a: A[8] + 41, b: A[8] + 71, at: [X + 12.163, DK + 0.4, -2.725], s: 0.85 }, { k: 'dust', a: A[8] + 68, b: A[8] + 98, at: [X + 7.303, DK + 0.4, 1.725], s: 0.85 }, { k: 'dust', a: A[8] + 95, b: A[8] + 125, at: [X + 12.005, DK + 0.4, 1.5], s: 0.85 }, { k: 'dust', a: A[8] + 122, b: A[8] + 152, at: [X + 7.145, DK + 0.4, 5.95], s: 0.85 }, { k: 'dust', a: A[8] + 149, b: A[8] + 179, at: [X + 11.848, DK + 0.4, -4.025], s: 0.85 }, { k: 'dust', a: A[8] + 176, b: A[8] + 206, at: [X + 6.988, DK + 0.4, 0.425], s: 0.85 }, { k: 'dust', a: A[8] + 203, b: A[8] + 233, at: [X + 11.69, DK + 0.4, 0.2], s: 0.85 }, { k: 'dust', a: A[8] + 230, b: A[8] + 260, at: [X + 6.83, DK + 0.4, 4.65], s: 0.85 }, { k: 'birds', a: A[8], b: A[9] - 1, at: [X, DK + 7.5, -30], n: 6, dir: 1, off: 8 }, txt(X, WS(125, -2), A[9] - 1, "CENTENAS", '#d8282f', '#fff6e0', 4.8, { s: 1.5, up: 0.42 }), { k: 'flash', a: A[8] + 8, b: A[8] + 16, at: [X + -9.28, DK - 1.05 + 0, 1.36], s: 2.5 }, { k: 'flash', a: A[8] + 16, b: A[8] + 24, at: [X + 0.04, DK - 1.05 + 0, 1.24], s: 2.5 }, { k: 'flash', a: A[8] + 20, b: A[8] + 28, at: [X + -6.84, DK - 1.05 + 0, -0.14], s: 2.5 }, { k: 'flash', a: A[8] + 24, b: A[8] + 32, at: [X + 2.48, DK - 1.05 + 0, -0.26], s: 2.5 }, { k: 'flash', a: A[8] + 28, b: A[8] + 36, at: [X + -6.2, DK - 1.05 + 0, -2.48], s: 2.5 }, { k: 'flash', a: A[8] + 36, b: A[8] + 44, at: [X + -8.01, DK - 1.05 + 0, 1.84], s: 2.5 }, { k: 'flash', a: A[8] + 40, b: A[8] + 48, at: [X + 2.3, DK - 1.05 + 0, 1.72], s: 2.5 }, { k: 'flash', a: A[8] + 44, b: A[8] + 52, at: [X + -4.58, DK - 1.05 + 0, -0.5], s: 2.5 }, { k: 'flash', a: A[8] + 48, b: A[8] + 56, at: [X + -13.26, DK - 1.05 + 0, -2.72], s: 2.5 }, { k: 'flash', a: A[8] + 56, b: A[8] + 64, at: [X + -3.94, DK - 1.05 + 0, -2.84], s: 2.5 }, { k: 'flash', a: A[8] + 60, b: A[8] + 68, at: [X + -5.75, DK - 1.05 + 0, 1.48], s: 2.5 }, { k: 'flash', a: A[8] + 64, b: A[8] + 72, at: [X + -12.63, DK - 1.05 + 0, -0.74], s: 2.5 }, { k: 'flash', a: A[8] + 68, b: A[8] + 76, at: [X + -3.31, DK - 1.05 + 0, -0.86], s: 2.5 }, { k: 'flash', a: A[8] + 76, b: A[8] + 84, at: [X + -11.0, DK - 1.05 + 0, -2.24], s: 2.5 }, { k: 'flash', a: A[8] + 80, b: A[8] + 88, at: [X + -13.8, DK - 1.05 + 0, 1.24], s: 2.5 }, { k: 'flash', a: A[8] + 84, b: A[8] + 92, at: [X + -3.49, DK - 1.05 + 0, 1.96], s: 2.5 }, { k: 'flash', a: A[8] + 88, b: A[8] + 96, at: [X + -10.37, DK - 1.05 + 0, -0.26], s: 2.5 }, { k: 'flash', a: A[8] + 96, b: A[8] + 104, at: [X + -1.05, DK - 1.05 + 0, -0.38], s: 2.5 }, { k: 'flash', a: A[8] + 100, b: A[8] + 108, at: [X + -9.73, DK - 1.05 + 0, -2.6], s: 2.5 }, { k: 'flash', a: A[8] + 104, b: A[8] + 112, at: [X + -11.54, DK - 1.05 + 0, 1.72], s: 2.5 }, { k: 'flash', a: A[8] + 108, b: A[8] + 116, at: [X + -2.22, DK - 1.05 + 0, 1.6], s: 2.5 }, { k: 'flash', a: A[8] + 116, b: A[8] + 124, at: [X + -9.1, DK - 1.05 + 0, -0.62], s: 2.5 }, { k: 'flash', a: A[8] + 120, b: A[8] + 128, at: [X + 1.21, DK - 1.05 + 0, -0.74], s: 2.5 }, { k: 'flash', a: A[8] + 124, b: A[8] + 132, at: [X + -7.47, DK - 1.05 + 0, -2.96], s: 2.5 }, { k: 'dust', a: A[8] + 22, b: A[8] + 42, at: [X + -10.03, DK + 0.1, 1.26], s: 0.6 }, { k: 'dust', a: A[8] + 39, b: A[8] + 59, at: [X + -4.24, DK + 0.1, 1.86], s: 0.6 }, { k: 'dust', a: A[8] + 56, b: A[8] + 76, at: [X + 1.55, DK + 0.1, 1.62], s: 0.6 }, { k: 'dust', a: A[8] + 73, b: A[8] + 93, at: [X + -9.85, DK + 0.1, -0.72], s: 0.6 }, { k: 'dust', a: A[8] + 90, b: A[8] + 110, at: [X + -4.06, DK + 0.1, -0.96], s: 0.6 }] }), nocut: true }, cam: [{ f: Math.round(A[8] + (A[9] - 1 + 1 - (A[8])) * 0.4), at: [X + 5.0, DK + 1.5, 3.5], d: 12, az: 4, el: 6, fov: 46 }, { f: Math.round(A[8] + (A[9] - 1 + 1 - (A[8])) * 0.66) - 1, at: [X + 12.0, DK + 1.5, -2.5], d: 13, az: -22, el: 8, fov: 46, ease: "lin" }], nocut: true, vary: false }, { ...{ ...S('b8_3', Math.round(A[8] + (A[9] - 1 + 1 - (A[8])) * 0.66), A[9] - 1, X, "desert", { h: 2.6, d0: 25.0, d1: 19.0, el: 11, cx: 0.0, cz: -1.5, hero: { hero: 'none', wide: true }, vary: false, nocut: true, trans: 'cut', actors: [pp(X, "AUS", 1, -1.15, -0.4, "stern"), pp(X, "AUS", 0, 1.15, 0.2, "stern"), { bird: 'emu', at: [X + 1.5, -0.5], move: [[X + 6.5, -5.5], A[8], A[9] - 1], state: 'walk', spd: 0.09, s: 1.6, flip: false, seed: 2 }, { bird: 'emu', at: [X + 3.188, 0.25], move: [[X + 14.488, -6.812], A[8], A[9] - 1], state: 'walk', spd: 0.09, s: 1.6, flip: false, seed: 7 }, { bird: 'emu', at: [X + 4.875, 1.0], move: [[X + 12.575, -8.125], A[8], A[9] - 1], state: 'walk', spd: 0.09, s: 1.6, flip: false, seed: 12 }, { bird: 'emu', at: [X + 6.562, 1.75], move: [[X + 20.562, -9.438], A[8], A[9] - 1], state: 'walk', spd: 0.09, s: 1.6, flip: false, seed: 17 }, { bird: 'emu', at: [X + 8.25, 2.5], move: [[X + 18.65, -10.75], A[8], A[9] - 1], state: 'walk', spd: 0.09, s: 1.6, flip: false, seed: 22 }, { bird: 'emu', at: [X + 9.938, 3.25], move: [[X + 16.738, -12.062], A[8], A[9] - 1], state: 'walk', spd: 0.09, s: 1.6, flip: false, seed: 27 }, { bird: 'emu', at: [X + 2.062, 4.0], move: [[X + 15.162, -1.688], A[8], A[9] - 1], state: 'walk', spd: 0.09, s: 1.6, flip: false, seed: 32 }, { bird: 'emu', at: [X + 3.75, 4.75], move: [[X + 13.25, -3.0], A[8], A[9] - 1], state: 'walk', spd: 0.09, s: 1.6, flip: false, seed: 37 }, { bird: 'emu', at: [X + 5.438, 5.5], move: [[X + 11.338, -4.312], A[8], A[9] - 1], state: 'walk', spd: 0.09, s: 1.6, flip: false, seed: 42 }, { bird: 'emu', at: [X + 7.125, 6.25], move: [[X + 19.325, -5.625], A[8], A[9] - 1], state: 'walk', spd: 0.09, s: 1.6, flip: false, seed: 47 }, { bird: 'emu', at: [X + 8.812, 7.0], move: [[X + 17.413, -6.938], A[8], A[9] - 1], state: 'walk', spd: 0.09, s: 1.6, flip: false, seed: 52 }, { bird: 'emu', at: [X + 10.5, 7.75], move: [[X + 15.5, -8.25], A[8], A[9] - 1], state: 'walk', spd: 0.09, s: 1.6, flip: false, seed: 57 }, { bird: 'emu', at: [X + 2.625, 8.5], move: [[X + 13.925, 2.125], A[8], A[9] - 1], state: 'walk', spd: 0.09, s: 1.6, flip: false, seed: 62 }, { bird: 'emu', at: [X + 4.312, -0.5], move: [[X + 12.012, -8.938], A[8], A[9] - 1], state: 'walk', spd: 0.09, s: 1.6, flip: false, seed: 67 }, { bird: 'emu', at: [X + 6.0, 0.25], move: [[X + 20.0, -10.25], A[8], A[9] - 1], state: 'walk', spd: 0.09, s: 1.6, flip: false, seed: 72 }, { bird: 'emu', at: [X + 7.688, 1.0], move: [[X + 18.087, -11.562], A[8], A[9] - 1], state: 'walk', spd: 0.09, s: 1.6, flip: false, seed: 77 }, { bird: 'emu', at: [X + 9.375, 1.75], move: [[X + 16.175, -12.875], A[8], A[9] - 1], state: 'walk', spd: 0.09, s: 1.6, flip: false, seed: 82 }, { bird: 'emu', at: [X + 1.5, 2.5], move: [[X + 14.6, -2.5], A[8], A[9] - 1], state: 'walk', spd: 0.09, s: 1.6, flip: false, seed: 87 }, { bird: 'emu', at: [X + 3.188, 3.25], move: [[X + 12.688, -3.812], A[8], A[9] - 1], state: 'walk', spd: 0.09, s: 1.6, flip: false, seed: 92 }, { bird: 'emu', at: [X + 4.875, 4.0], move: [[X + 10.775, -5.125], A[8], A[9] - 1], state: 'walk', spd: 0.09, s: 1.6, flip: false, seed: 97 }, { bird: 'emu', at: [X + 6.562, 4.75], move: [[X + 18.762, -6.438], A[8], A[9] - 1], state: 'walk', spd: 0.09, s: 1.6, flip: false, seed: 102 }, { bird: 'emu', at: [X + 8.25, 5.5], move: [[X + 16.85, -7.75], A[8], A[9] - 1], state: 'walk', spd: 0.09, s: 1.6, flip: false, seed: 107 }, { bird: 'emu', at: [X + 9.938, 6.25], move: [[X + 14.938, -9.062], A[8], A[9] - 1], state: 'walk', spd: 0.09, s: 1.6, flip: false, seed: 112 }, { bird: 'emu', at: [X + 2.062, 7.0], move: [[X + 13.363, 1.312], A[8], A[9] - 1], state: 'walk', spd: 0.09, s: 1.6, flip: false, seed: 117 }, { bird: 'emu', at: [X + 3.75, 7.75], move: [[X + 11.45, 0.0], A[8], A[9] - 1], state: 'walk', spd: 0.09, s: 1.6, flip: false, seed: 122 }, { bird: 'emu', at: [X + 5.438, 8.5], move: [[X + 19.438, -1.312], A[8], A[9] - 1], state: 'walk', spd: 0.09, s: 1.6, flip: false, seed: 127 }, pp(X, "AUS", 0, -14.55, 0.84, "neutral", { look: -0.25, seed: 0 }), pp(X, "AUS", 1, -12.29, 1.32, "neutral", { look: 0.25, seed: 1 }), Object.assign(pp(X, "AUS", 2, -10.03, 0.96, "neutral", { look: 0.0, seed: 2 }), { poses: [[A[8] + 22, A[9] - 1, 'fall']] }), pp(X, "AUS", 3, -8.76, 1.44, "neutral", { look: 0.15, seed: 3 }), pp(X, "AUS", 4, -6.5, 1.08, "neutral", { look: -0.25, seed: 0 }), Object.assign(pp(X, "AUS", 5, -4.24, 1.56, "neutral", { look: 0.25, seed: 1 }), { poses: [[A[8] + 39, A[9] - 1, 'fall']] }), pp(X, "AUS", 6, -2.97, 1.2, "neutral", { look: 0.0, seed: 2 }), pp(X, "AUS", 0, -0.71, 0.84, "neutral", { look: 0.15, seed: 3 }), Object.assign(pp(X, "AUS", 1, 1.55, 1.32, "neutral", { look: -0.25, seed: 0 }), { poses: [[A[8] + 56, A[9] - 1, 'fall']] }), pp(X, "AUS", 2, -13.38, -1.14, "neutral", { look: 0.25, seed: 1 }), pp(X, "AUS", 3, -11.12, -0.66, "neutral", { look: 0.0, seed: 2 }), Object.assign(pp(X, "AUS", 4, -9.85, -1.02, "neutral", { look: 0.15, seed: 3 }), { poses: [[A[8] + 73, A[9] - 1, 'fall']] }), pp(X, "AUS", 5, -7.59, -0.54, "neutral", { look: -0.25, seed: 0 }), pp(X, "AUS", 6, -5.33, -0.9, "neutral", { look: 0.25, seed: 1 }), Object.assign(pp(X, "AUS", 0, -4.06, -1.26, "neutral", { look: 0.0, seed: 2 }), { poses: [[A[8] + 90, A[9] - 1, 'fall']] }), pp(X, "AUS", 1, -1.8, -0.78, "neutral", { look: 0.15, seed: 3 }), pp(X, "AUS", 2, 0.46, -1.14, "neutral", { look: -0.25, seed: 0 }), pp(X, "AUS", 3, 1.73, -0.66, "neutral", { look: 0.25, seed: 1 }), pp(X, "AUS", 4, -14.01, -3.12, "neutral", { look: 0.0, seed: 2 }), pp(X, "AUS", 5, -11.75, -2.64, "neutral", { look: 0.15, seed: 3 }), pp(X, "AUS", 6, -10.48, -3.0, "neutral", { look: -0.25, seed: 0 }), pp(X, "AUS", 0, -8.22, -3.36, "neutral", { look: 0.25, seed: 1 }), pp(X, "AUS", 1, -6.95, -2.88, "neutral", { look: 0.0, seed: 2 }), pp(X, "AUS", 2, -4.69, -3.24, "neutral", { look: 0.15, seed: 3 })], fx: [{ k: 'dust', a: A[8] + 14, b: A[8] + 44, at: [X + 3.5, DK + 0.4, -2.5], s: 0.85 }, { k: 'dust', a: A[8] + 41, b: A[8] + 71, at: [X + 12.163, DK + 0.4, -2.725], s: 0.85 }, { k: 'dust', a: A[8] + 68, b: A[8] + 98, at: [X + 7.303, DK + 0.4, 1.725], s: 0.85 }, { k: 'dust', a: A[8] + 95, b: A[8] + 125, at: [X + 12.005, DK + 0.4, 1.5], s: 0.85 }, { k: 'dust', a: A[8] + 122, b: A[8] + 152, at: [X + 7.145, DK + 0.4, 5.95], s: 0.85 }, { k: 'dust', a: A[8] + 149, b: A[8] + 179, at: [X + 11.848, DK + 0.4, -4.025], s: 0.85 }, { k: 'dust', a: A[8] + 176, b: A[8] + 206, at: [X + 6.988, DK + 0.4, 0.425], s: 0.85 }, { k: 'dust', a: A[8] + 203, b: A[8] + 233, at: [X + 11.69, DK + 0.4, 0.2], s: 0.85 }, { k: 'dust', a: A[8] + 230, b: A[8] + 260, at: [X + 6.83, DK + 0.4, 4.65], s: 0.85 }, { k: 'birds', a: A[8], b: A[9] - 1, at: [X, DK + 7.5, -30], n: 6, dir: 1, off: 8 }, txt(X, WS(125, -2), A[9] - 1, "CENTENAS", '#d8282f', '#fff6e0', 4.8, { s: 1.5, up: 0.42 }), { k: 'flash', a: A[8] + 8, b: A[8] + 16, at: [X + -9.28, DK - 1.05 + 0, 1.36], s: 2.5 }, { k: 'flash', a: A[8] + 16, b: A[8] + 24, at: [X + 0.04, DK - 1.05 + 0, 1.24], s: 2.5 }, { k: 'flash', a: A[8] + 20, b: A[8] + 28, at: [X + -6.84, DK - 1.05 + 0, -0.14], s: 2.5 }, { k: 'flash', a: A[8] + 24, b: A[8] + 32, at: [X + 2.48, DK - 1.05 + 0, -0.26], s: 2.5 }, { k: 'flash', a: A[8] + 28, b: A[8] + 36, at: [X + -6.2, DK - 1.05 + 0, -2.48], s: 2.5 }, { k: 'flash', a: A[8] + 36, b: A[8] + 44, at: [X + -8.01, DK - 1.05 + 0, 1.84], s: 2.5 }, { k: 'flash', a: A[8] + 40, b: A[8] + 48, at: [X + 2.3, DK - 1.05 + 0, 1.72], s: 2.5 }, { k: 'flash', a: A[8] + 44, b: A[8] + 52, at: [X + -4.58, DK - 1.05 + 0, -0.5], s: 2.5 }, { k: 'flash', a: A[8] + 48, b: A[8] + 56, at: [X + -13.26, DK - 1.05 + 0, -2.72], s: 2.5 }, { k: 'flash', a: A[8] + 56, b: A[8] + 64, at: [X + -3.94, DK - 1.05 + 0, -2.84], s: 2.5 }, { k: 'flash', a: A[8] + 60, b: A[8] + 68, at: [X + -5.75, DK - 1.05 + 0, 1.48], s: 2.5 }, { k: 'flash', a: A[8] + 64, b: A[8] + 72, at: [X + -12.63, DK - 1.05 + 0, -0.74], s: 2.5 }, { k: 'flash', a: A[8] + 68, b: A[8] + 76, at: [X + -3.31, DK - 1.05 + 0, -0.86], s: 2.5 }, { k: 'flash', a: A[8] + 76, b: A[8] + 84, at: [X + -11.0, DK - 1.05 + 0, -2.24], s: 2.5 }, { k: 'flash', a: A[8] + 80, b: A[8] + 88, at: [X + -13.8, DK - 1.05 + 0, 1.24], s: 2.5 }, { k: 'flash', a: A[8] + 84, b: A[8] + 92, at: [X + -3.49, DK - 1.05 + 0, 1.96], s: 2.5 }, { k: 'flash', a: A[8] + 88, b: A[8] + 96, at: [X + -10.37, DK - 1.05 + 0, -0.26], s: 2.5 }, { k: 'flash', a: A[8] + 96, b: A[8] + 104, at: [X + -1.05, DK - 1.05 + 0, -0.38], s: 2.5 }, { k: 'flash', a: A[8] + 100, b: A[8] + 108, at: [X + -9.73, DK - 1.05 + 0, -2.6], s: 2.5 }, { k: 'flash', a: A[8] + 104, b: A[8] + 112, at: [X + -11.54, DK - 1.05 + 0, 1.72], s: 2.5 }, { k: 'flash', a: A[8] + 108, b: A[8] + 116, at: [X + -2.22, DK - 1.05 + 0, 1.6], s: 2.5 }, { k: 'flash', a: A[8] + 116, b: A[8] + 124, at: [X + -9.1, DK - 1.05 + 0, -0.62], s: 2.5 }, { k: 'flash', a: A[8] + 120, b: A[8] + 128, at: [X + 1.21, DK - 1.05 + 0, -0.74], s: 2.5 }, { k: 'flash', a: A[8] + 124, b: A[8] + 132, at: [X + -7.47, DK - 1.05 + 0, -2.96], s: 2.5 }, { k: 'dust', a: A[8] + 22, b: A[8] + 42, at: [X + -10.03, DK + 0.1, 1.26], s: 0.6 }, { k: 'dust', a: A[8] + 39, b: A[8] + 59, at: [X + -4.24, DK + 0.1, 1.86], s: 0.6 }, { k: 'dust', a: A[8] + 56, b: A[8] + 76, at: [X + 1.55, DK + 0.1, 1.62], s: 0.6 }, { k: 'dust', a: A[8] + 73, b: A[8] + 93, at: [X + -9.85, DK + 0.1, -0.72], s: 0.6 }, { k: 'dust', a: A[8] + 90, b: A[8] + 110, at: [X + -4.06, DK + 0.1, -0.96], s: 0.6 }] }), nocut: true }, cam: [{ f: Math.round(A[8] + (A[9] - 1 + 1 - (A[8])) * 0.66), at: [X + 1.0, DK + 1.4, 1.0], d: 17, az: 6, el: 13, fov: 48 }, { f: A[9] - 1, at: [X + 3.0, DK + 1.0, -2.0], d: 36, az: -18, el: 30, fov: 48 }], nocut: true, vary: false, glide: true },
     S('b9', A[9], A[10] - 1, X, "golden", { h: 2.3, d0: 8.4, d1: 7.4, vary: false, hero: { hero: 'any', frame: 'medium', minH: 0.07, main: 2 }, trans: 'dissolve', actors: [Object.assign(pp(X, "FARM", 0, -1.15, 1.3, "pleading", { pose: 'talk', inter: { k: 'lean', a: Math.round(A[9] + (A[10] - 1 - (A[9])) * 0.12), b: Math.round(A[9] + (A[10] - 1 - (A[9])) * 0.82), dir: 1, n: 2, ph: 0 } }), { gests: [[WS(136) - 4, WS(144) - 4, 'facepalm'], [WS(144) - 4, WS(144) + 46, 'up']] }), pp(X, "FARM", 1, 1.15, 1.0, "grin", { pose: 'talk', inter: { k: 'nod', a: Math.round(A[9] + (A[10] - 1 - (A[9])) * 0.2), b: Math.round(A[9] + (A[10] - 1 - (A[9])) * 0.9), dir: -1, n: 2, ph: 3.14 } }), { bird: 'emu', at: [X + -0.6, -1.45], state: "stand", s: 1.6, flip: true, seed: 2 }, { bird: 'emu', at: [X + 1.8, -0.85], state: "peck", s: 1.6, flip: false, seed: 7 }, { bird: 'emu', at: [X + 4.2, -1.3], state: "stand", s: 1.6, flip: true, seed: 12 }, { bird: 'emu', at: [X + 6.6, -0.7], state: "stand", s: 1.6, flip: false, seed: 17 }, { bird: 'emu', at: [X + 0.5, -3.75], state: "peck", s: 1.6, flip: true, seed: 22 }, { bird: 'emu', at: [X + 2.9, -3.15], state: "stand", s: 1.6, flip: false, seed: 27 }], props: [{ asset: "buildings/windmill", at: [X + 4.8, -11.0], s: 1.05, ry: -0.35, drop: false }, { asset: "buildings/barn", at: [X + 5.5, -10.0], s: 1.2, drop: false }, { asset: "nature/picket_fence", at: [X + -3.4, -2.6], s: 1.3 }, { asset: "nature/haybale", at: [X + 3.6, -1.4], s: 1.1 }, { asset: "nature/scarecrow", at: [X + -4.6, -4.5], s: 1.2 }], fx: [{ k: 'text', a: A[9], b: A[10] - 1, at: [X + 0.0, DK, -1.3], text: "PRÊMIO", s: 2.625, col: '#3a2416', size: 120, board: true }, { k: "puff", a: WS(136), b: WS(136) + 28, at: [X + -0.25, DK + 0.12, 1.7], s: 0.7 }, { k: "stars", a: WS(144), b: WS(144) + 28, at: [X + -1.15, DK + 0.5, 2.5], s: 1.1 }, { k: 'stars', a: WS(144) + 2, b: WS(144) + 30, at: [X + -1.15, DK + 3.2, 1.3], s: 0.7 }] }),
-    S('b10', A[10], A[11] - 1, X, "golden", { h: 2.4, d0: 5.6, d1: 4.9, hero: { hero: 'any', frame: 'medium', minH: 0.07, main: 1 }, trans: 'dissolve', actors: [pp(X, "AUS", 0, 0.0, 1.3, "pained", { pose: 'talk' }), { bird: 'emu', at: [X + 0.4, -0.15], state: "stand", s: 1.6, flip: true, seed: 2 }, { bird: 'emu', at: [X + 2.8, 0.45], state: "peck", s: 1.6, flip: false, seed: 7 }, { bird: 'emu', at: [X + 5.2, 0.0], state: "stand", s: 1.6, flip: true, seed: 12 }], props: [{ asset: "buildings/house_small", at: [X + -4.8, -11.0], s: 1.05, ry: 0.35, drop: false }], fx: [{ k: 'birds', a: A[10], b: A[11] - 1, at: [X, DK + 6.0, -30], n: 5, dir: -1, off: 8 }, txt(X, WS(151, -2), A[11] - 1, "HUMANOS 0 - 1 EMUS", '#e8c45a', '#7a1c1c', 4.6, { s: 1.5, up: 0.55 })] })
+    S('b10', A[10], A[11] - 1, X, "golden", { h: 2.3, d0: 8.4, d1: 7.4, hero: { hero: 'any', frame: 'medium', minH: 0.07, main: 2 }, trans: 'dissolve', actors: [pp(X, "AUS", 0, -1.15, 1.3, "pained", { pose: 'talk', inter: { k: 'lean', a: Math.round(A[10] + (A[11] - 1 - (A[10])) * 0.12), b: Math.round(A[10] + (A[11] - 1 - (A[10])) * 0.82), dir: 1, n: 2, ph: 0 } }), pp(X, "AUS", 1, 1.15, 1.0, "sad", { pose: 'talk', inter: { k: 'nod', a: Math.round(A[10] + (A[11] - 1 - (A[10])) * 0.2), b: Math.round(A[10] + (A[11] - 1 - (A[10])) * 0.9), dir: -1, n: 2, ph: 3.14 } }), { bird: 'emu', at: [X + 1.1, 0.05], state: "stand", s: 1.6, flip: true, seed: 2 }, { bird: 'emu', at: [X + 3.5, 0.65], state: "peck", s: 1.6, flip: false, seed: 7 }, { bird: 'emu', at: [X + 5.9, 0.2], state: "stand", s: 1.6, flip: true, seed: 12 }], props: [{ asset: "buildings/house_small", at: [X + -4.8, -11.0], s: 1.05, ry: 0.35, drop: false }], fx: [{ k: 'birds', a: A[10], b: A[11] - 1, at: [X, DK + 6.0, -30], n: 5, dir: -1, off: 8 }, txt(X, WS(151, -2), A[11] - 1, "HUMANOS 0 - 1 EMUS", '#e8c45a', '#7a1c1c', 4.5, { s: 1.5, up: 0.46 })] })
   ],
 };
 
-// FOLHA3 9211cc846342 55 acoes=55 faltando=0
+// FOLHA3 2b56d6baa761 56 acoes=56 faltando=0
 SPEC.fit = {"b0":1.404,"b0~1":1.761,"b0~2":1.972,"b10":1.572,"b10~1":1.761,"b3":1.572,"b3_1":1.404,"b4":1.404,"b4_1":1.572,"b7":3.104,"b8":1.404,"b8_1":1.572,"b9":1.12,"b9_v":1.254};
 // ===== STORY RUNTIME (generic): turns a declarative SPEC (stories/<id>.spec.js, concatenated before this file) into the story.js interface the engine expects =====
 import { camFromKeys, clamp, lerp, ramp, q, blinkAt, idle, M } from './motion.js';

diff --git a/ferramenta-shorts/stories/emus1932/revisao_storyboard.md b/ferramenta-shorts/stories/emus1932/revisao_storyboard.md
@@ -1,0 +1,11 @@
+b0: OK - cena confere com a frase: A Austrália declarou guerra a um bando de pássaros. E perdeu.
+b1: OK - cena confere com a frase: Vinte mil emus estavam devorando as plantações de trigo no oeste do país, e
+b2: OK - cena confere com a frase: "Mande o exército", pediram eles. E o ministro mandou.
+b3: OK - cena confere com a frase: Soldados, duas metralhadoras, e dez mil balas. Contra emus.
+b4: OK - cena confere com a frase: Acontece que emu é rápido, e não fica parado. Os soldados atiravam, e os
+b5: OK - cena confere com a frase: Um atirador montou a metralhadora num caminhão. Mas o caminhão pulava tanto, que ele
+b6: OK - cena confere com a frase: Depois de uma semana, milhares de balas gastas, e os emus quase sem um
+b7: OK - cena confere com a frase: A tropa fugiu. A imprensa gargalhou, e o comandante admitiu: "Eles aguentam bala como
+b8: OK - cena confere com a frase: O exército tentou de novo, abateu algumas centenas, e os emus continuaram voltando.
+b9: OK - cena confere com a frase: No fim, o governo desistiu da guerra, e passou a oferecer um prêmio aos
+b10: OK - cena confere com a frase: Humanos, zero. Emus, um.
